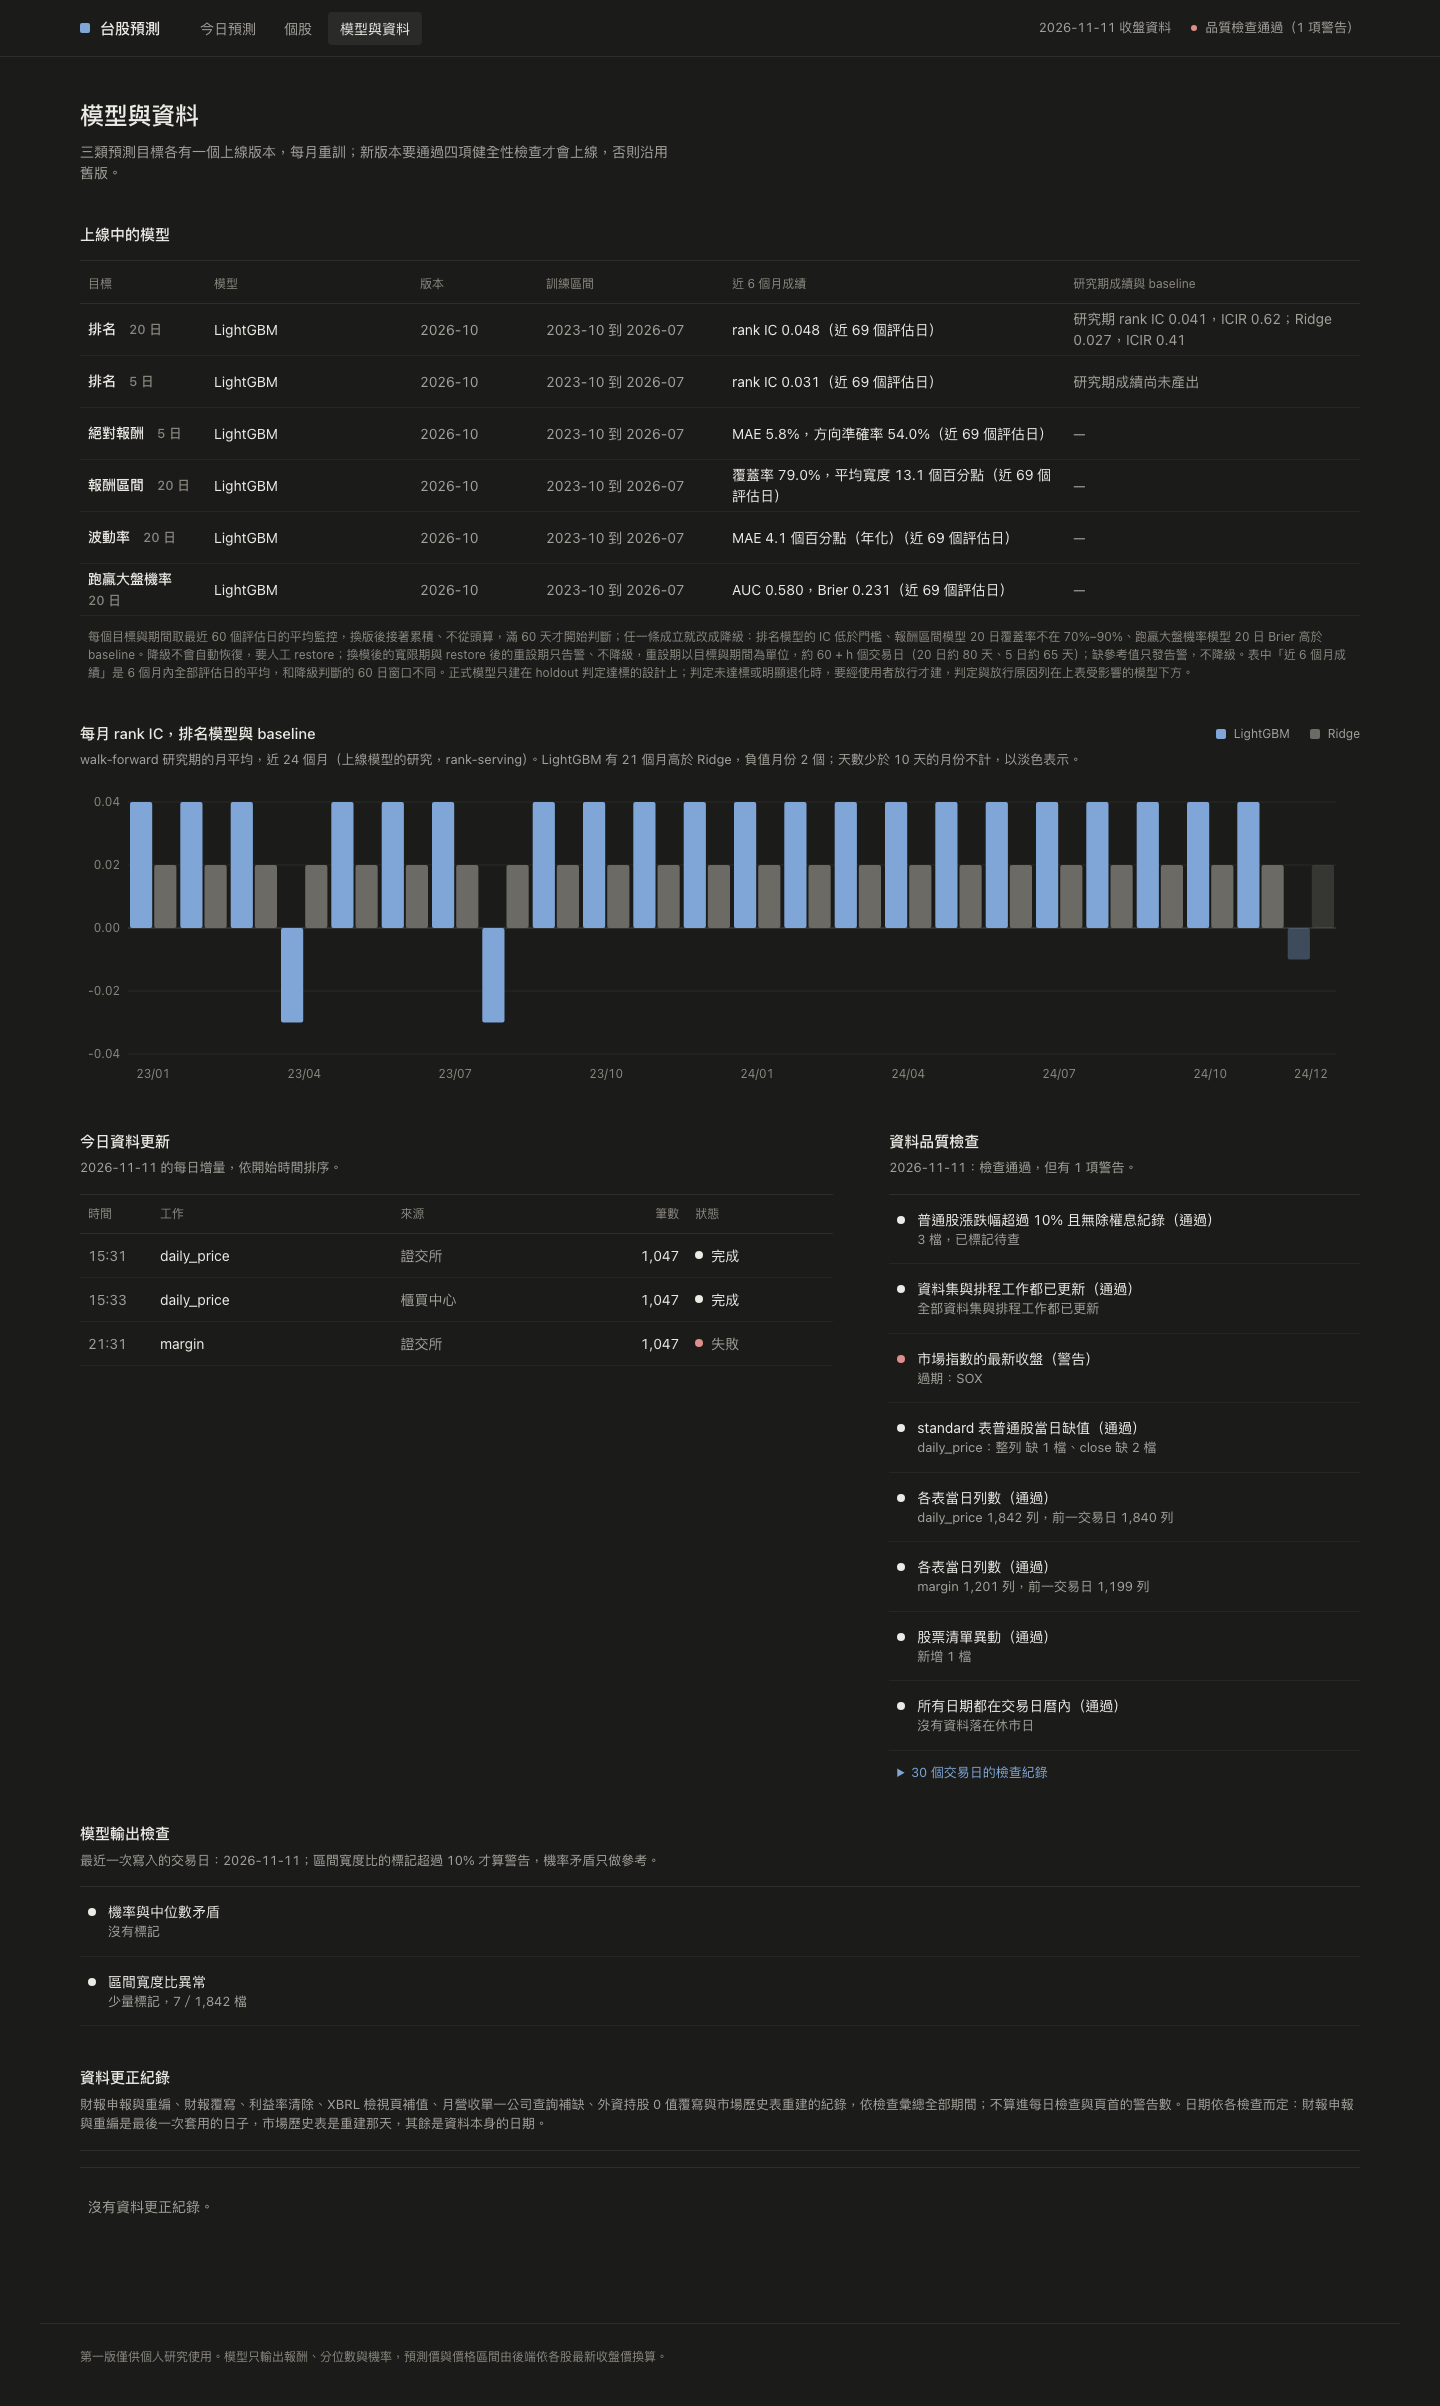
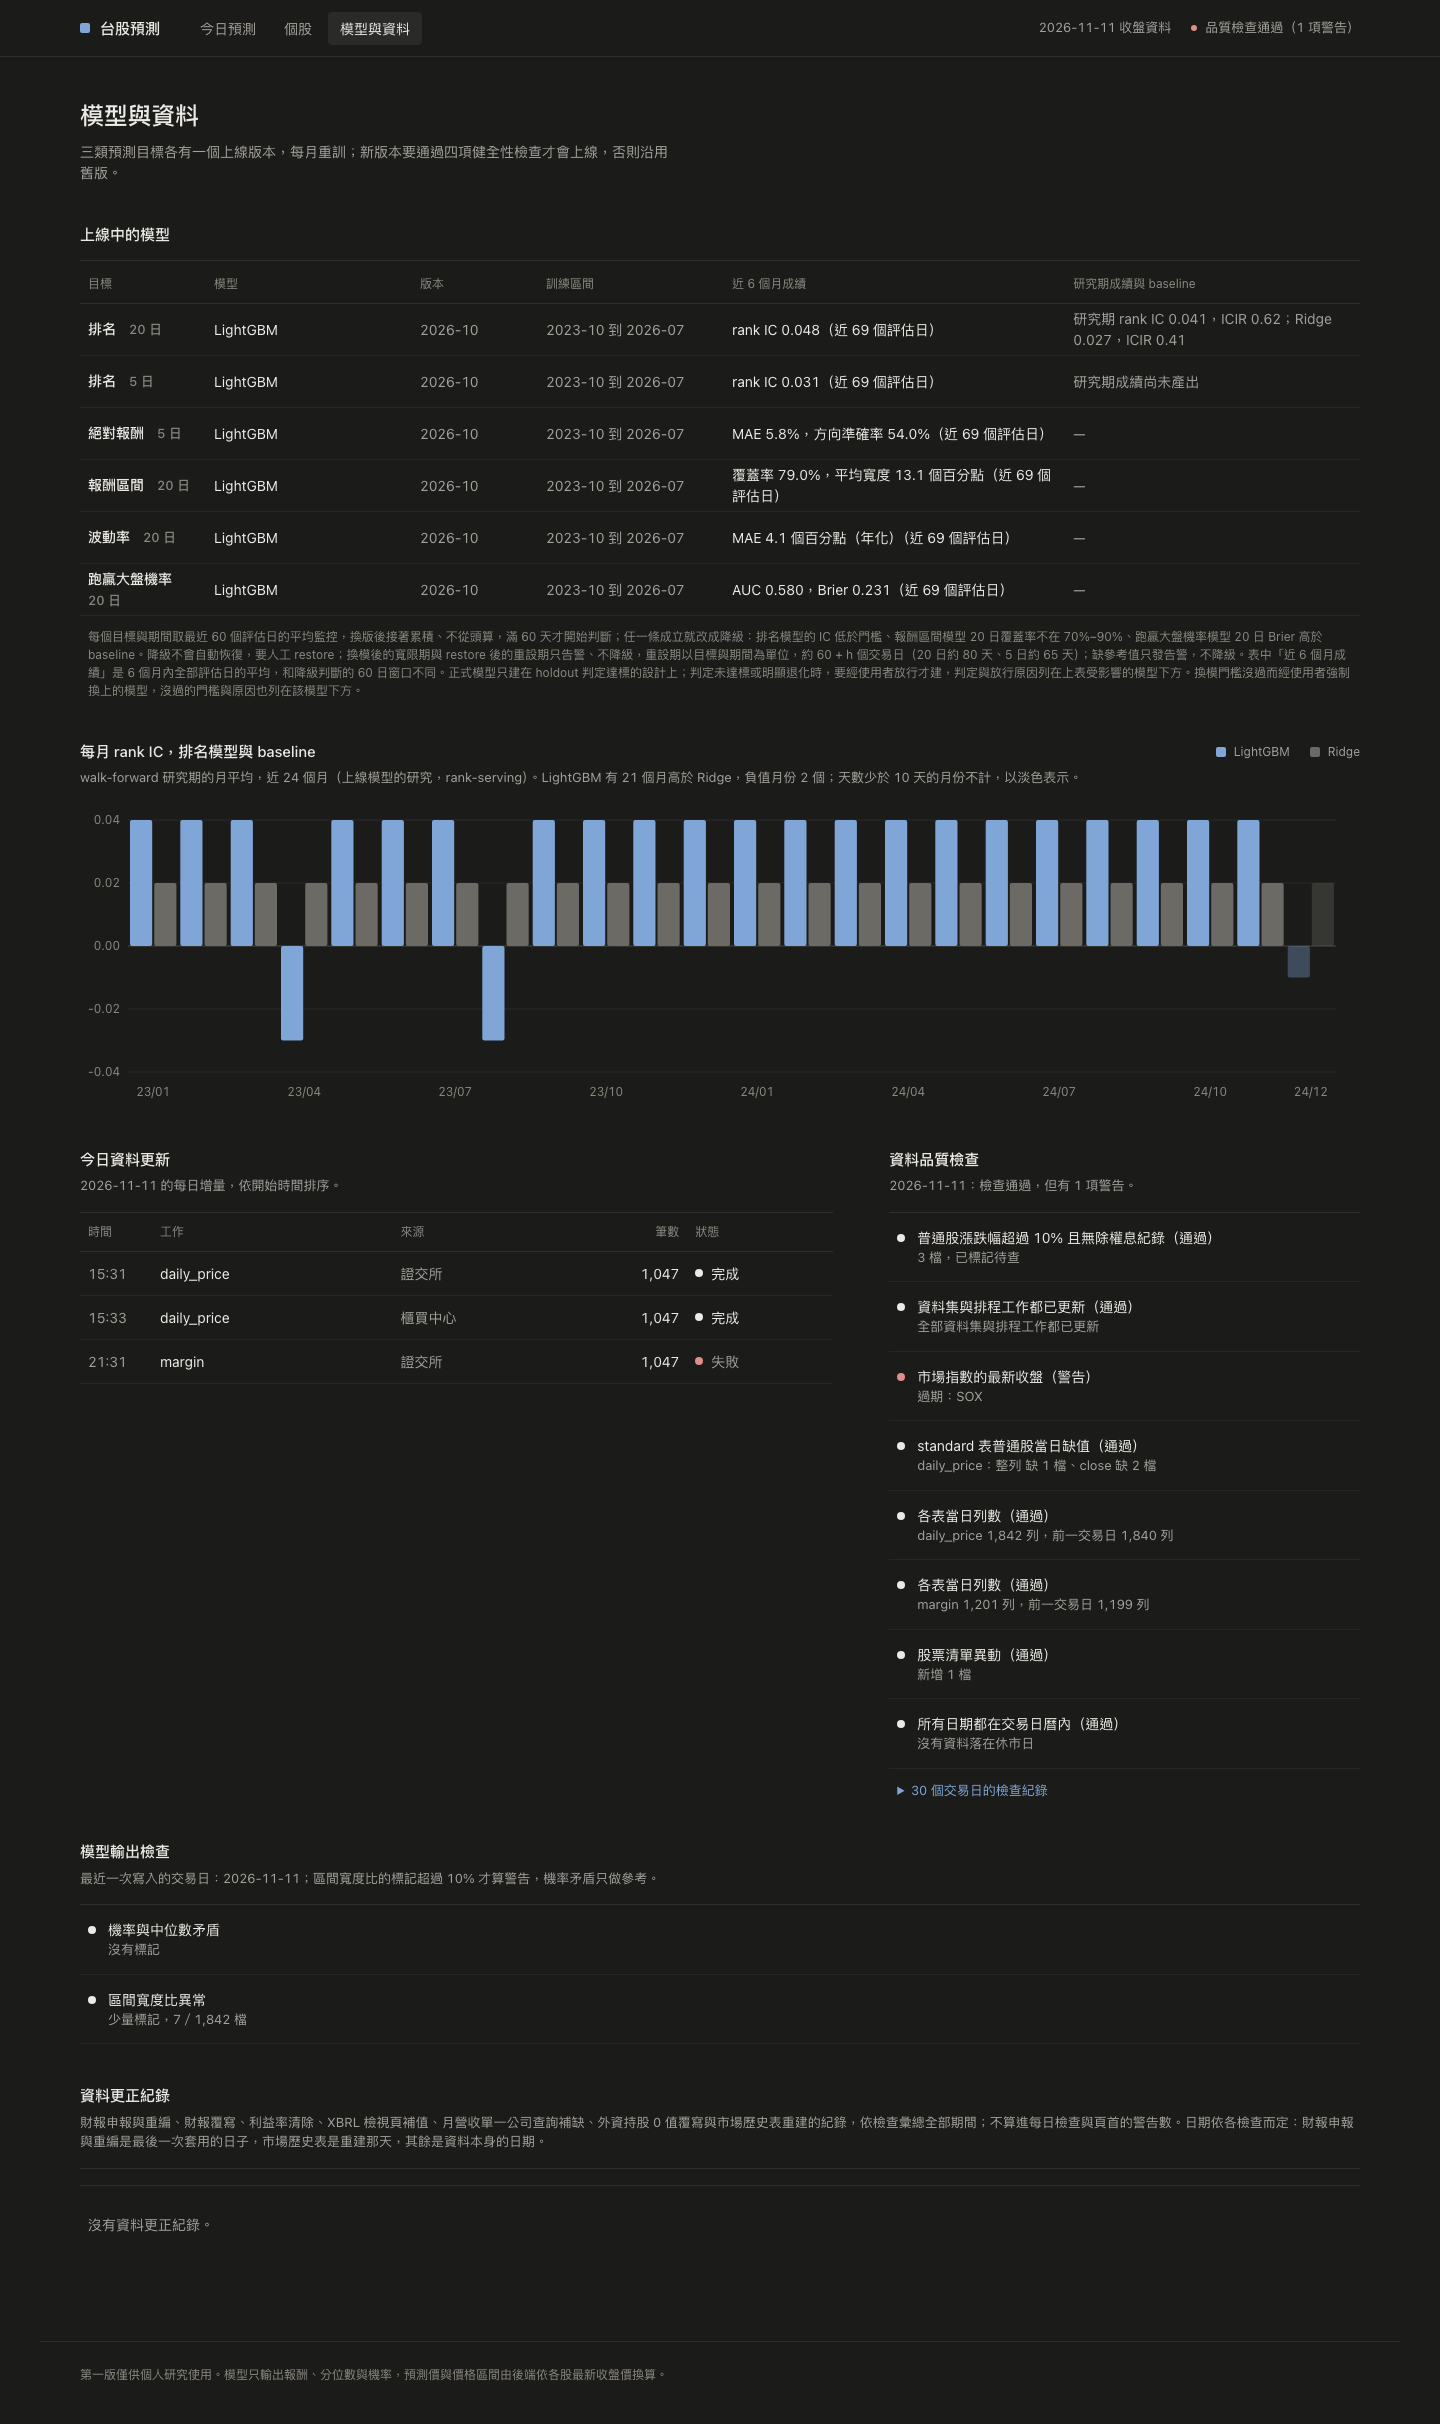
docs: mention the forced-promotion notes and recapture the models view

diff --git a/README.md b/README.md
@@ -24,7 +24,7 @@ The UI is a single page with three views, switched by the `#` fragment of the UR
 | Stock (個股) | `/#stock-2330` | Candlestick or closing-price chart, how this prediction came about (feature contributions), past predictions against actual outcomes | Prices; the prediction blocks need a live model |
 | Models and data (模型與資料) | `/#models` | The live models, monthly rank IC against the baseline, today's data updates, data-quality and model-output checks, the data correction log | ETL records; the model blocks need a live model |
 
-When no model is live yet, the prediction blocks show 「預測資料尚未產出」 ("predictions have not been produced yet"), while the candlestick chart, ETL records and quality checks are shown as usual. A model goes live only after its holdout verdict passes, or after the user releases a verdict that fell short: the empty ranking says so, and when the ranking is live but another model has no predictions for the day, a note above the table names the columns left blank. A model built on a released verdict shows the verdict, what fell short and the user's reason under the rows it covers on the models page (`holdout_release` in `/api/models`, without the report path), and the model-output checks keep each scope's latest `model_holdout_release` alert pinned. The today and stock pages name every model shown there that went live on a released verdict (`released_verdict` on each entry of `models` in `/api/predictions` and `/api/stocks/<code>/predictions`) and point to the models page for the reason. The status bar at the top reads `/api/status`: when the day's quality checks report an error, no predictions are produced for that day; `quality.warnings` is the number of checks with warnings and `quality.warning_rows` is the number of rows with warnings.
+When no model is live yet, the prediction blocks show 「預測資料尚未產出」 ("predictions have not been produced yet"), while the candlestick chart, ETL records and quality checks are shown as usual. A model goes live only after its holdout verdict passes, or after the user releases a verdict that fell short: the empty ranking says so, and when the ranking is live but another model has no predictions for the day, a note above the table names the columns left blank. A model built on a released verdict shows the verdict, what fell short and the user's reason under the rows it covers on the models page (`holdout_release` in `/api/models`, without the report path), and the model-output checks keep each scope's latest `model_holdout_release` alert pinned. The today and stock pages name every model shown there that went live on a released verdict, or that was swapped in by force past promotion gates it failed (`released_verdict` and `forced_gates` on each entry of `models` in `/api/predictions` and `/api/stocks/<code>/predictions`), and point to the models page, where the forced swap's day, reason and failed gates sit under that model (`forced_promotion` in `/api/models`). The status bar at the top reads `/api/status`: when the day's quality checks report an error, no predictions are produced for that day; `quality.warnings` is the number of checks with warnings and `quality.warning_rows` is the number of rows with warnings.
 
 ## Data and model pipeline
 
